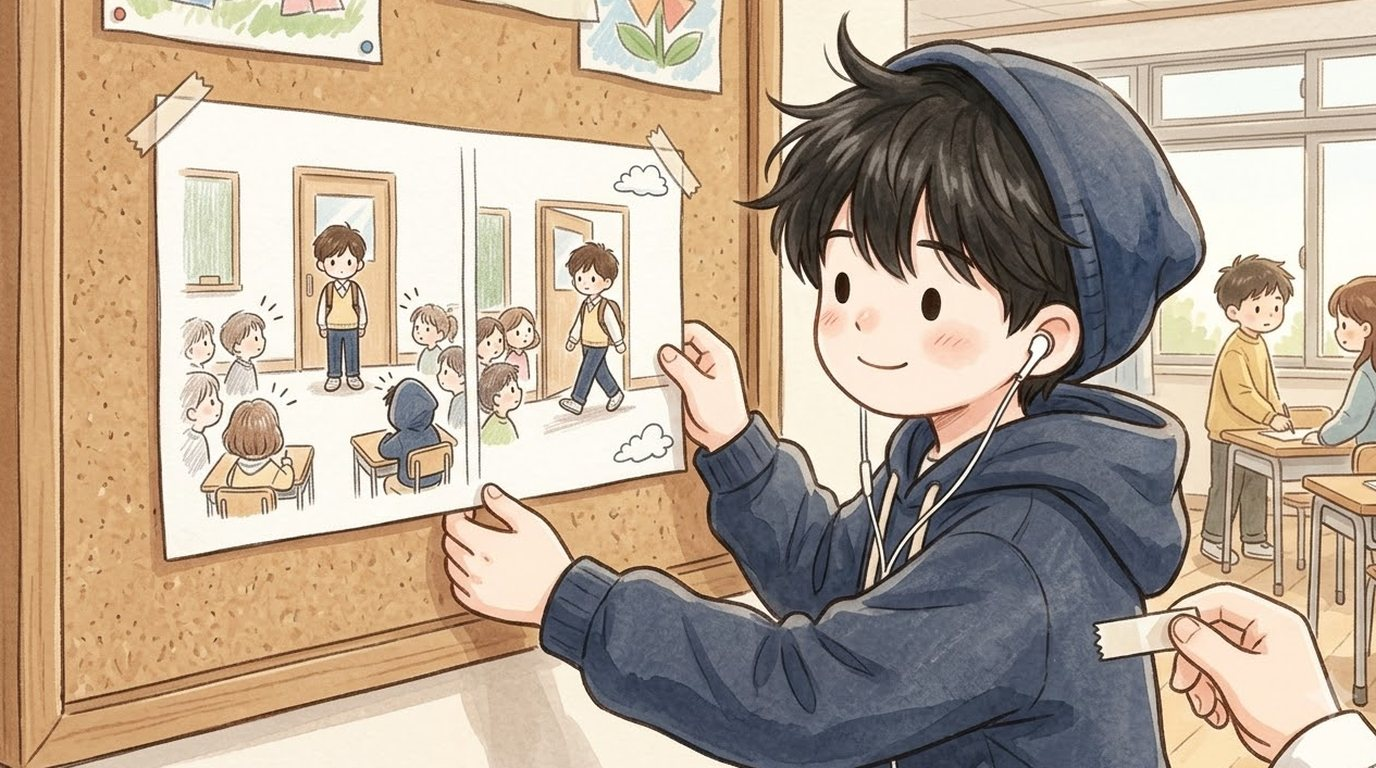
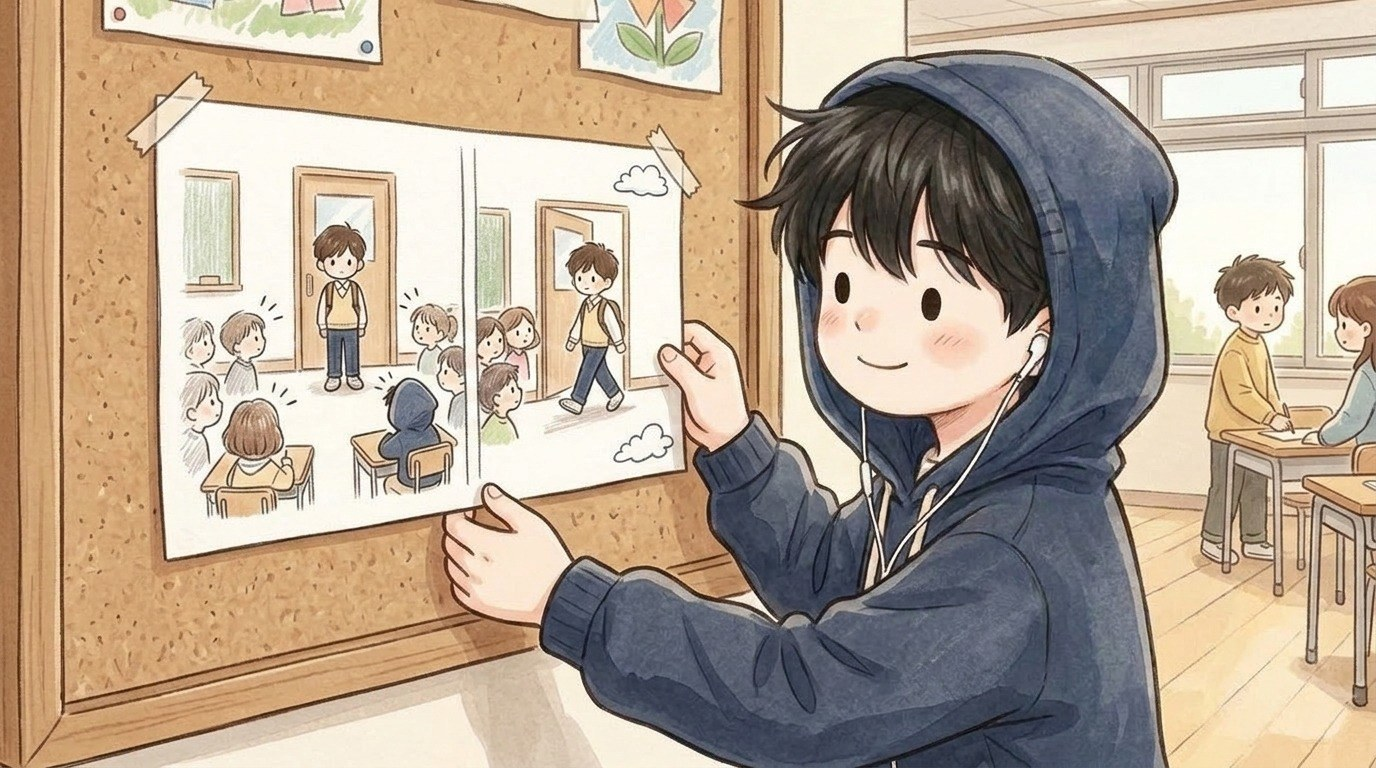
Junho ice pack on his left foot (junho_05a); Haneul hood not beanie (haneul_15a_m); two bags in the aisle (hyeeun_01) (BUILD 1107161252)

diff --git a/index.html b/index.html
@@ -119,14 +119,14 @@ body,button{word-break:keep-all;overflow-wrap:break-word}
 <div id="fader"></div>
 <script>
 // same address, newest version: if the page this phone has kept is older than the one online, fetch the new one and reopen
-const BUILD='1107160635';
+const BUILD='1107161252';
 try{fetch(location.pathname,{cache:'no-store'}).then(r=>r.text()).then(t=>{const m=t.match(/const BUILD='(\d+)'/);if(m&&m[1]!==BUILD&&sessionStorage.getItem('upd')!==m[1]){sessionStorage.setItem('upd',m[1]);fetch(location.pathname,{cache:'reload'}).then(()=>location.reload())}}).catch(()=>{})}catch(e){}
 </script>
-<script src="i18n.js?v=1107160635"></script>
-<script src="i18n_prologue_v2.js?v=1107160635"></script>
-<script src="day2/i18n_engine.js?v=1107160635"></script>
-<script src="day2/data.js?v=1107160635"></script>
-<script src="day3/data.js?v=1107160635"></script>
+<script src="i18n.js?v=1107161252"></script>
+<script src="i18n_prologue_v2.js?v=1107161252"></script>
+<script src="day2/i18n_engine.js?v=1107161252"></script>
+<script src="day2/data.js?v=1107161252"></script>
+<script src="day3/data.js?v=1107161252"></script>
 <script>
 // ---------- data ----------
 const MW=1672,MH=941,KID=180;
@@ -569,35 +569,35 @@ function pickHero(){const m=document.getElementById('modal'),c=document.getEleme
  c.innerHTML=`<h2>${tr('전학생 반장되기')}</h2><p>${tr('한국말이 아직 서툰 전학생,<br>반장 선거에 나가다.')}</p><p style="margin-top:14px">${tr('누구로 할까요?')}</p>${(()=>{const s=loadSave();return s&&s.day>=2&&s.mode===UI+'-'+LANG?`<p><button class="big" id="cont">${tr('{n}일차부터 이어 하기').replace('{n}',s.day)}</button></p>`:''})()}<div class="pick heroes"><button data-h="hero_f"><img src="faces/hero_f_smile.jpg" alt="여자 주인공">${heroName(1)}</button><button data-h="hero_m"><img src="faces/hero_m_smile.jpg" alt="남자 주인공">${heroName(0)}</button></div>`;
  m.classList.add('on');{const cb=document.getElementById('cont');if(cb)cb.onclick=()=>{const s=loadSave();HERO=s.hero;Object.assign(HEART,s.heart||{});(s.found||[]).forEach(k=>FOUND.add(k));HEART_D1={...HEART};chime();(typeof contGame==='function'?contGame(s):startDay(Math.min(s.day,Object.keys(window.D3||{}).length?3:2)))}}c.querySelectorAll('.pick button').forEach(b=>b.onclick=()=>{HERO=b.dataset.h;m.classList.remove('on');chime();bgm('day');load('home_am');say([['nar','','이사 온 다음 날 아침. 아직 풀지 못한 상자들이 쌓여 있다.'],['think','sad','(오늘부터 새 학교야. 여기 말도 아직 서툰데…….)'],['think','smile','({m}한테 인사하고 학교 가야지.)']],morning)})}
 </script>
-<script src="day2/engine.js?v=1107160635"></script>
-<script src="day2/ep_minho.js?v=1107160635"></script>
-<script src="day2/meet.js?v=1107160635"></script>
-<script src="day2/ep_sua.js?v=1107160635"></script>
-<script src="day2/ep_hangyeol.js?v=1107160635"></script>
-<script src="day2/ep_siwoo.js?v=1107160635"></script>
-<script src="day2/ep_haram.js?v=1107160635"></script>
-<script src="day2/ep_jiho.js?v=1107160635"></script>
-<script src="day2/ep_hyeeun.js?v=1107160635"></script>
-<script src="day2/ep_haneul.js?v=1107160635"></script>
-<script src="day2/ep_junho.js?v=1107160635"></script>
-<script src="day2/ep_yuna.js?v=1107160635"></script>
-<script src="day2/ep_yena.js?v=1107160635"></script>
-<script src="day2/ep_haeun.js?v=1107160635"></script>
-<script src="day2/ep_youngmin.js?v=1107160635"></script>
-<script src="day2/ep_seah.js?v=1107160635"></script>
-<script src="day2/ep_jihoon.js?v=1107160635"></script>
-<script src="words_ja_ru.js?v=1107160635"></script>
-<script src="day2/mybag.js?v=1107160635"></script>
-<script src="day2/wordpics.js?v=1107160635"></script>
-<script src="day2/spots.js?v=1107160635"></script>
-<script src="day2/textfit.js?v=1107160635"></script>
-<script src="day2/tester.js?v=1107160635"></script>
-<script src="day2/ux.js?v=1107160635"></script>
-<script src="day2/tapword.js?v=1107160635"></script>
-<script src="day2/review.js?v=1107160635"></script>
-<script src="day2/plane.js?v=1107160635"></script>
-<script src="day2/ep_ending.js?v=1107160635"></script>
-<script src="day2/ending.js?v=1107160635"></script>
+<script src="day2/engine.js?v=1107161252"></script>
+<script src="day2/ep_minho.js?v=1107161252"></script>
+<script src="day2/meet.js?v=1107161252"></script>
+<script src="day2/ep_sua.js?v=1107161252"></script>
+<script src="day2/ep_hangyeol.js?v=1107161252"></script>
+<script src="day2/ep_siwoo.js?v=1107161252"></script>
+<script src="day2/ep_haram.js?v=1107161252"></script>
+<script src="day2/ep_jiho.js?v=1107161252"></script>
+<script src="day2/ep_hyeeun.js?v=1107161252"></script>
+<script src="day2/ep_haneul.js?v=1107161252"></script>
+<script src="day2/ep_junho.js?v=1107161252"></script>
+<script src="day2/ep_yuna.js?v=1107161252"></script>
+<script src="day2/ep_yena.js?v=1107161252"></script>
+<script src="day2/ep_haeun.js?v=1107161252"></script>
+<script src="day2/ep_youngmin.js?v=1107161252"></script>
+<script src="day2/ep_seah.js?v=1107161252"></script>
+<script src="day2/ep_jihoon.js?v=1107161252"></script>
+<script src="words_ja_ru.js?v=1107161252"></script>
+<script src="day2/mybag.js?v=1107161252"></script>
+<script src="day2/wordpics.js?v=1107161252"></script>
+<script src="day2/spots.js?v=1107161252"></script>
+<script src="day2/textfit.js?v=1107161252"></script>
+<script src="day2/tester.js?v=1107161252"></script>
+<script src="day2/ux.js?v=1107161252"></script>
+<script src="day2/tapword.js?v=1107161252"></script>
+<script src="day2/review.js?v=1107161252"></script>
+<script src="day2/plane.js?v=1107161252"></script>
+<script src="day2/ep_ending.js?v=1107161252"></script>
+<script src="day2/ending.js?v=1107161252"></script>
 <script>
 // the goal shows big for a few seconds, then folds into a small pill (tap it to open it again)
 {const g=document.getElementById('goal');let t=null;const big=()=>{g.classList.remove('mini');clearTimeout(t);t=setTimeout(()=>g.classList.add('mini'),4000)};
